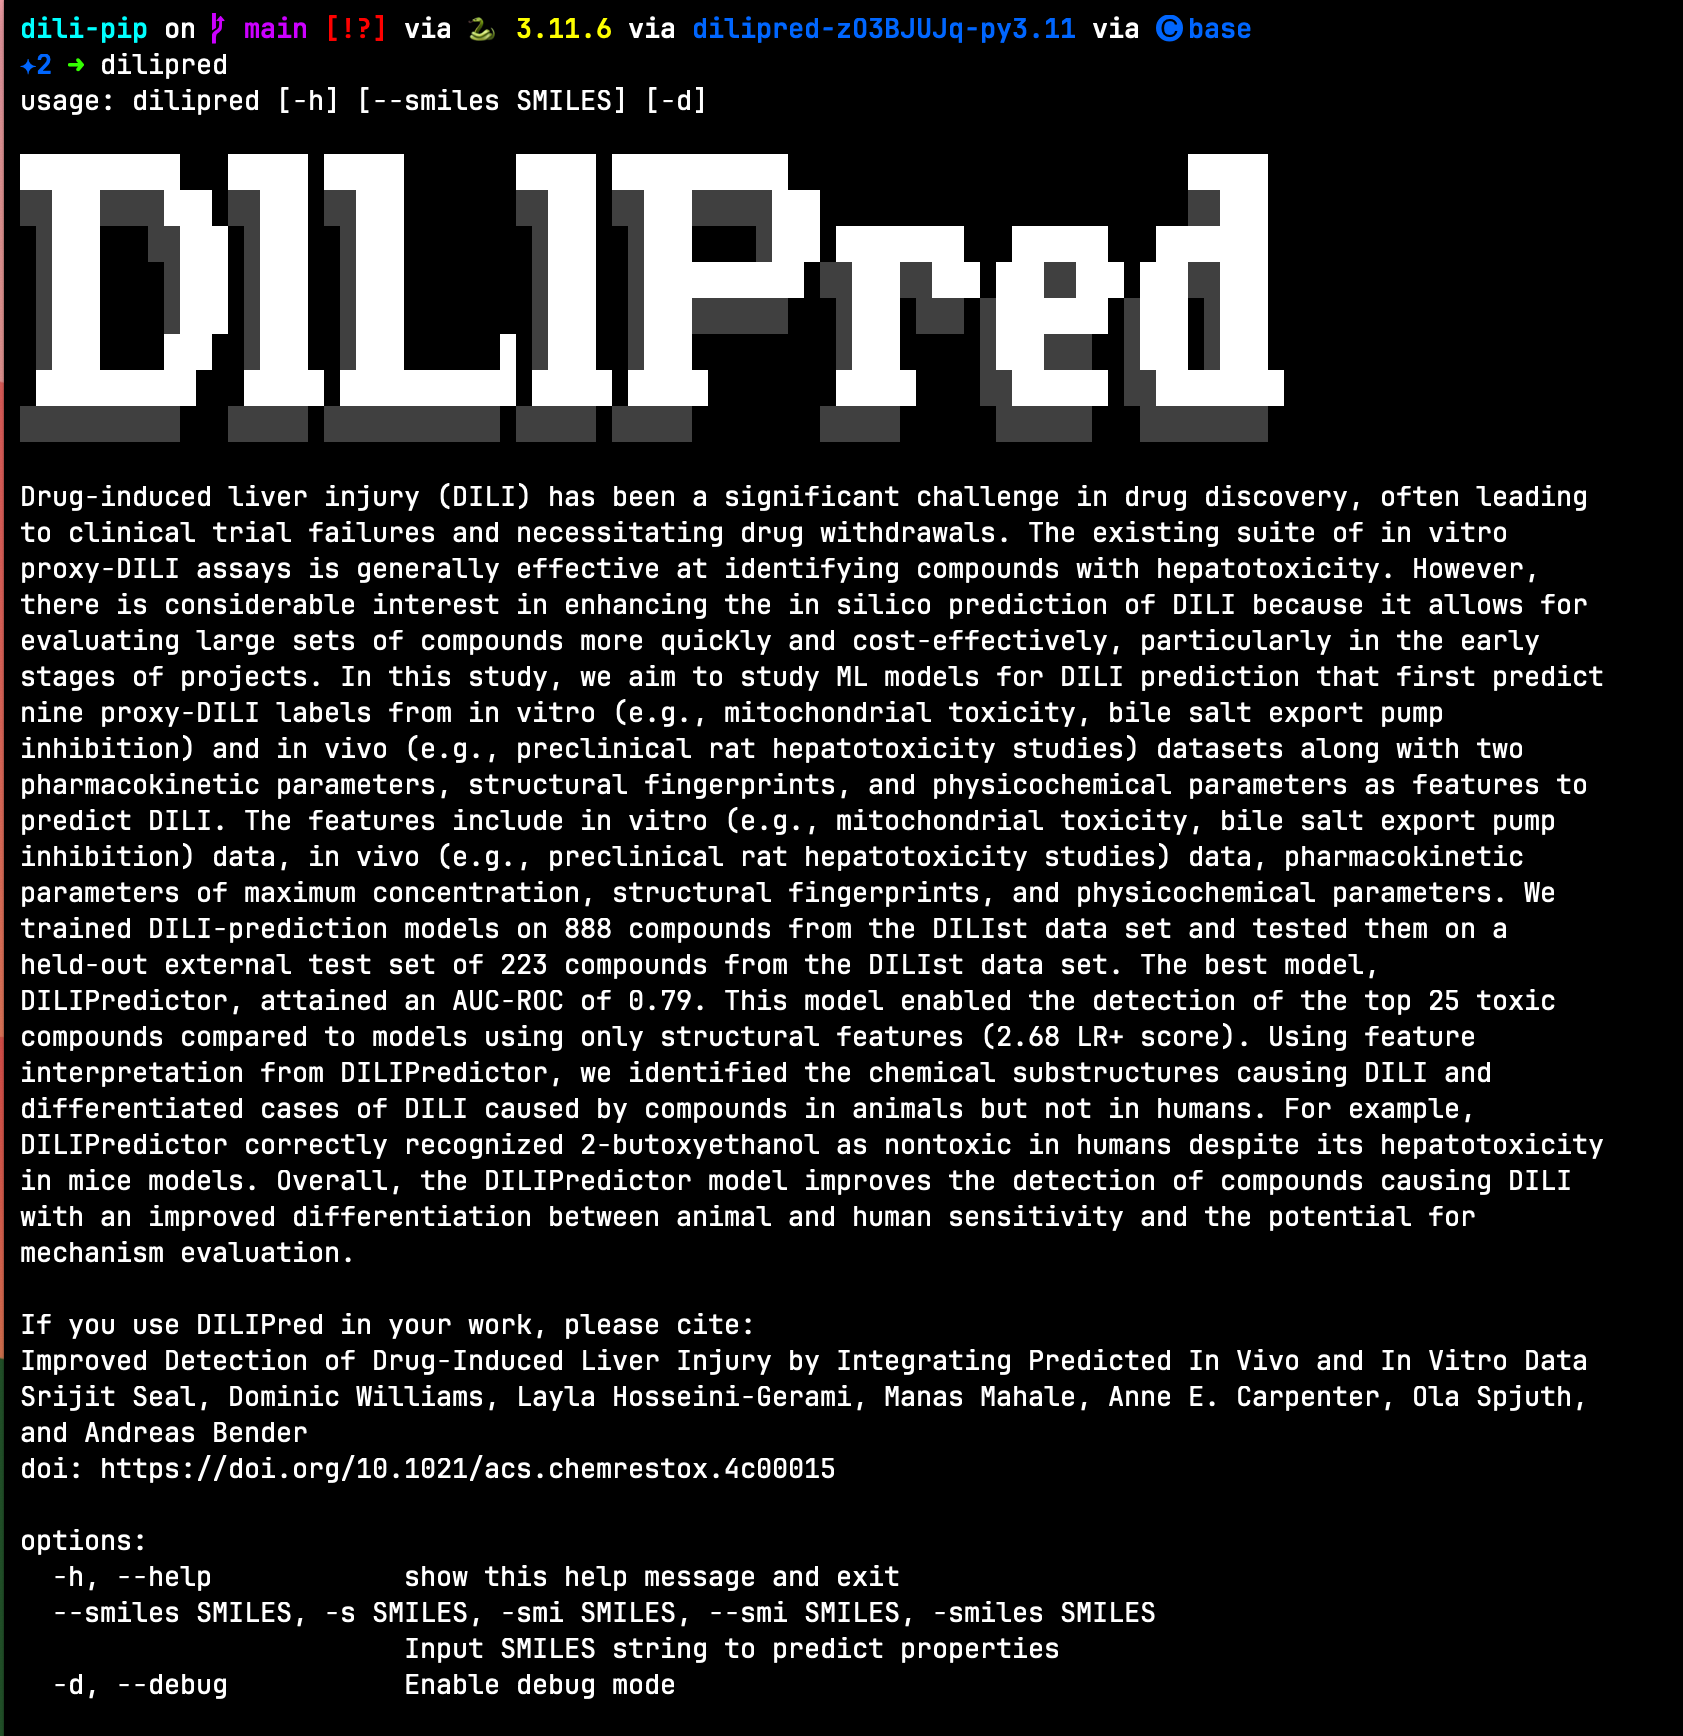
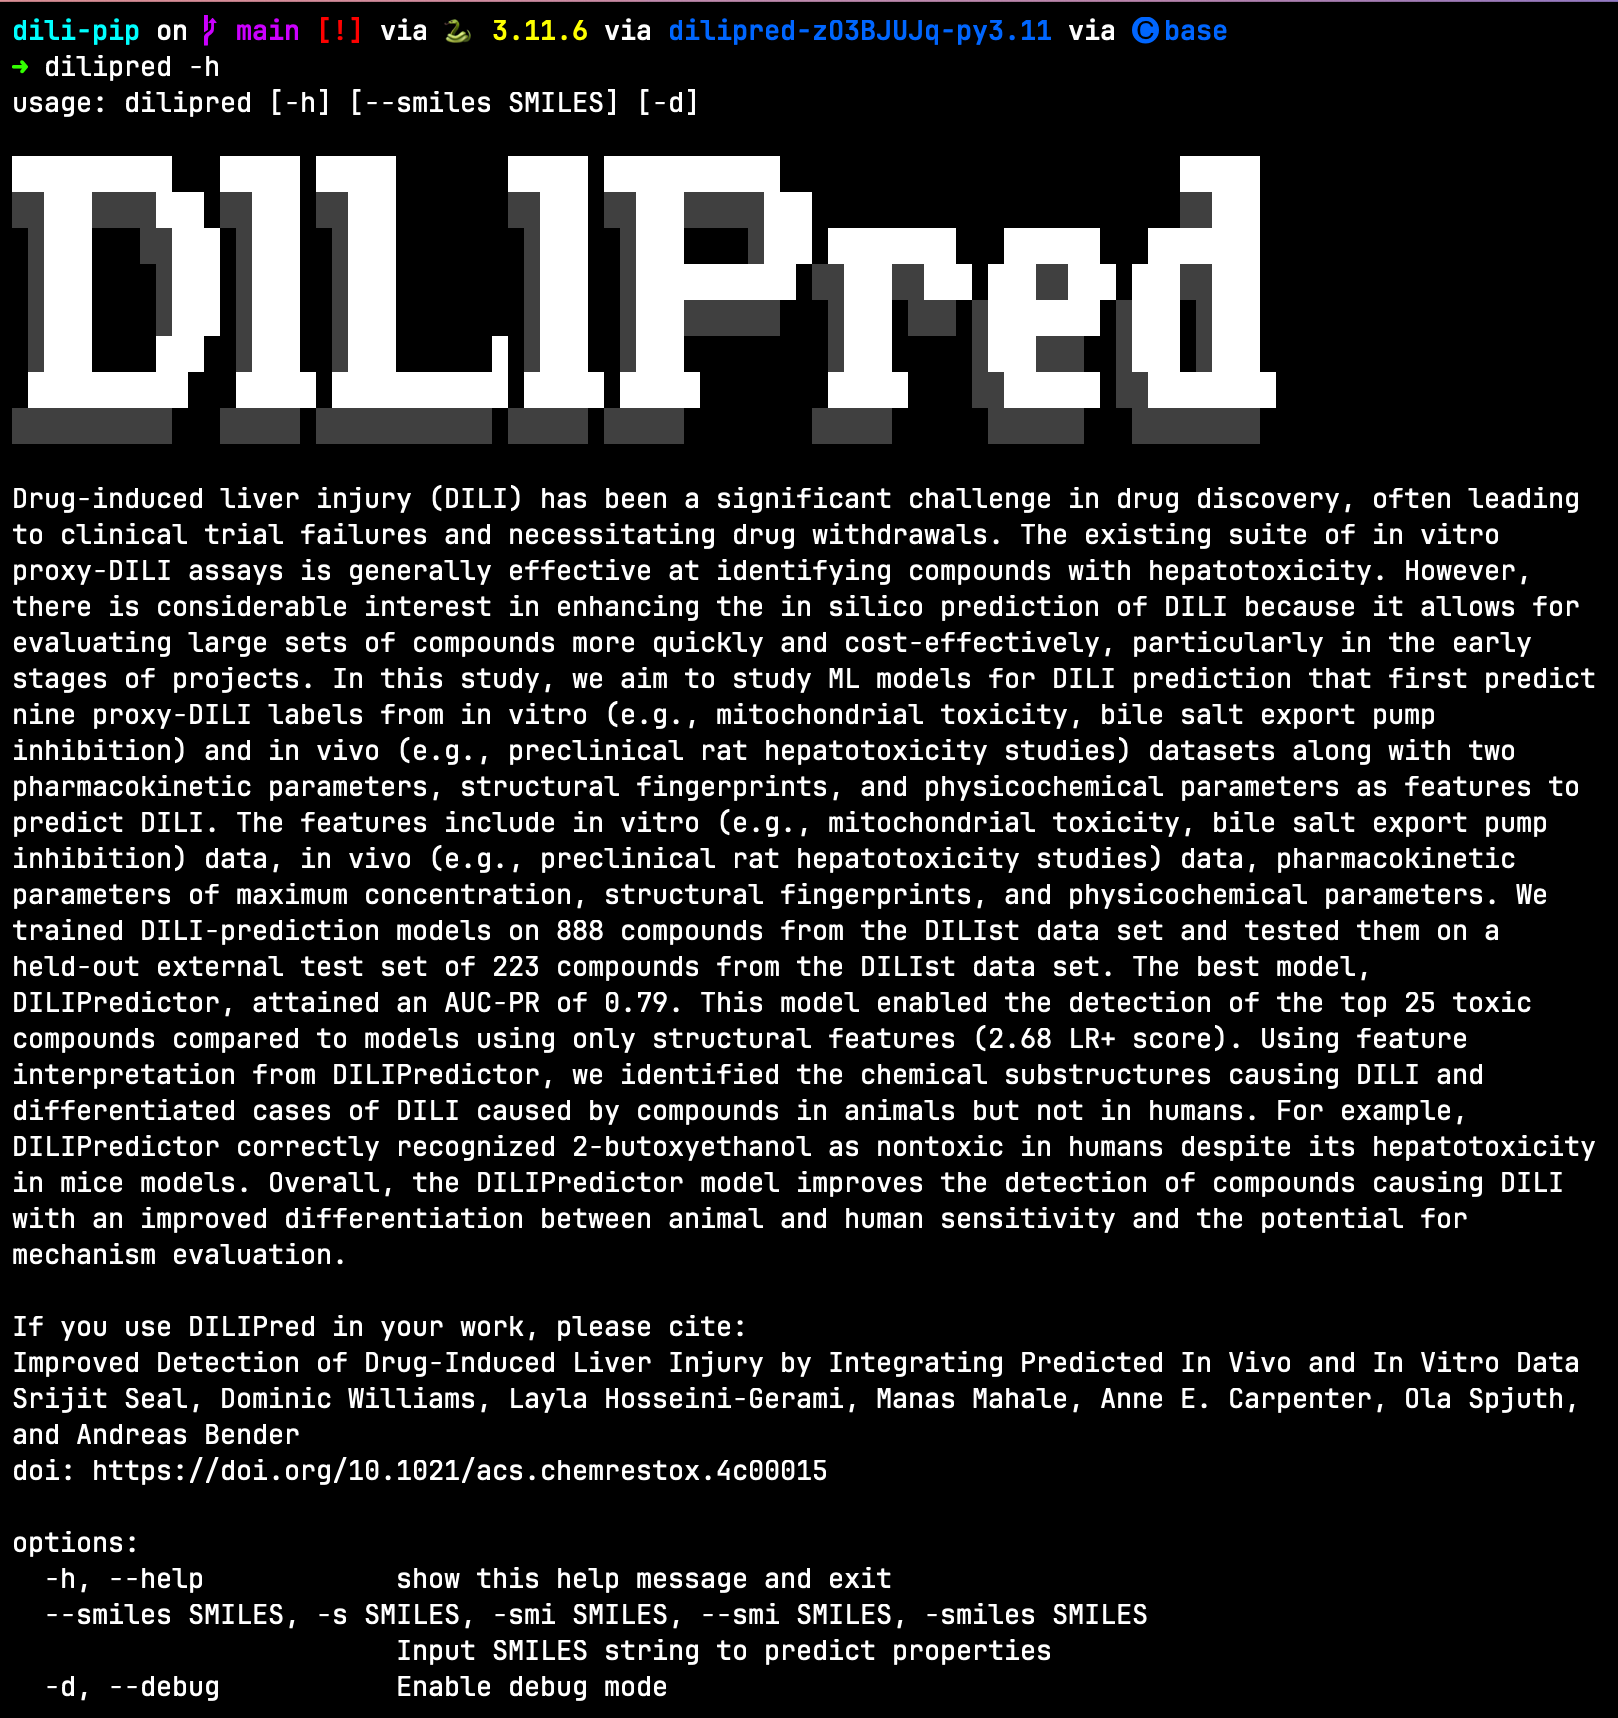
AUCROC -> AUCPR

Changed region(s): [[0.0, 0.0, 0.9889, 0.9872]]

diff --git a/dilipred/constants.py b/dilipred/constants.py
@@ -25,7 +25,7 @@ inhibition) data, in vivo (e.g., preclinical rat hepatotoxicity studies) data, p
 parameters of maximum concentration, structural fingerprints, and physicochemical parameters. We
 trained DILI-prediction models on 888 compounds from the DILIst data set and tested them on a
 held-out external test set of 223 compounds from the DILIst data set. The best model,
-DILIPredictor, attained an AUC-ROC of 0.79. This model enabled the detection of the top 25 toxic
+DILIPredictor, attained an AUC-PR of 0.79. This model enabled the detection of the top 25 toxic
 compounds compared to models using only structural features (2.68 LR+ score). Using feature
 interpretation from DILIPredictor, we identified the chemical substructures causing DILI and
 differentiated cases of DILI caused by compounds in animals but not in humans. For example,

diff --git a/README.md b/README.md
@@ -16,7 +16,7 @@ inhibition) data, in vivo (e.g., preclinical rat hepatotoxicity studies) data, p
 parameters of maximum concentration, structural fingerprints, and physicochemical parameters. We
 trained DILI-prediction models on 888 compounds from the DILIst data set and tested them on a
 held-out external test set of 223 compounds from the DILIst data set. The best model,
-DILIPredictor, attained an AUC-ROC of 0.79. This model enabled the detection of the top 25 toxic
+DILIPredictor, attained an AUC-PR of 0.79. This model enabled the detection of the top 25 toxic
 compounds compared to models using only structural features (2.68 LR+ score). Using feature
 interpretation from DILIPredictor, we identified the chemical substructures causing DILI and
 differentiated cases of DILI caused by compounds in animals but not in humans. For example,
